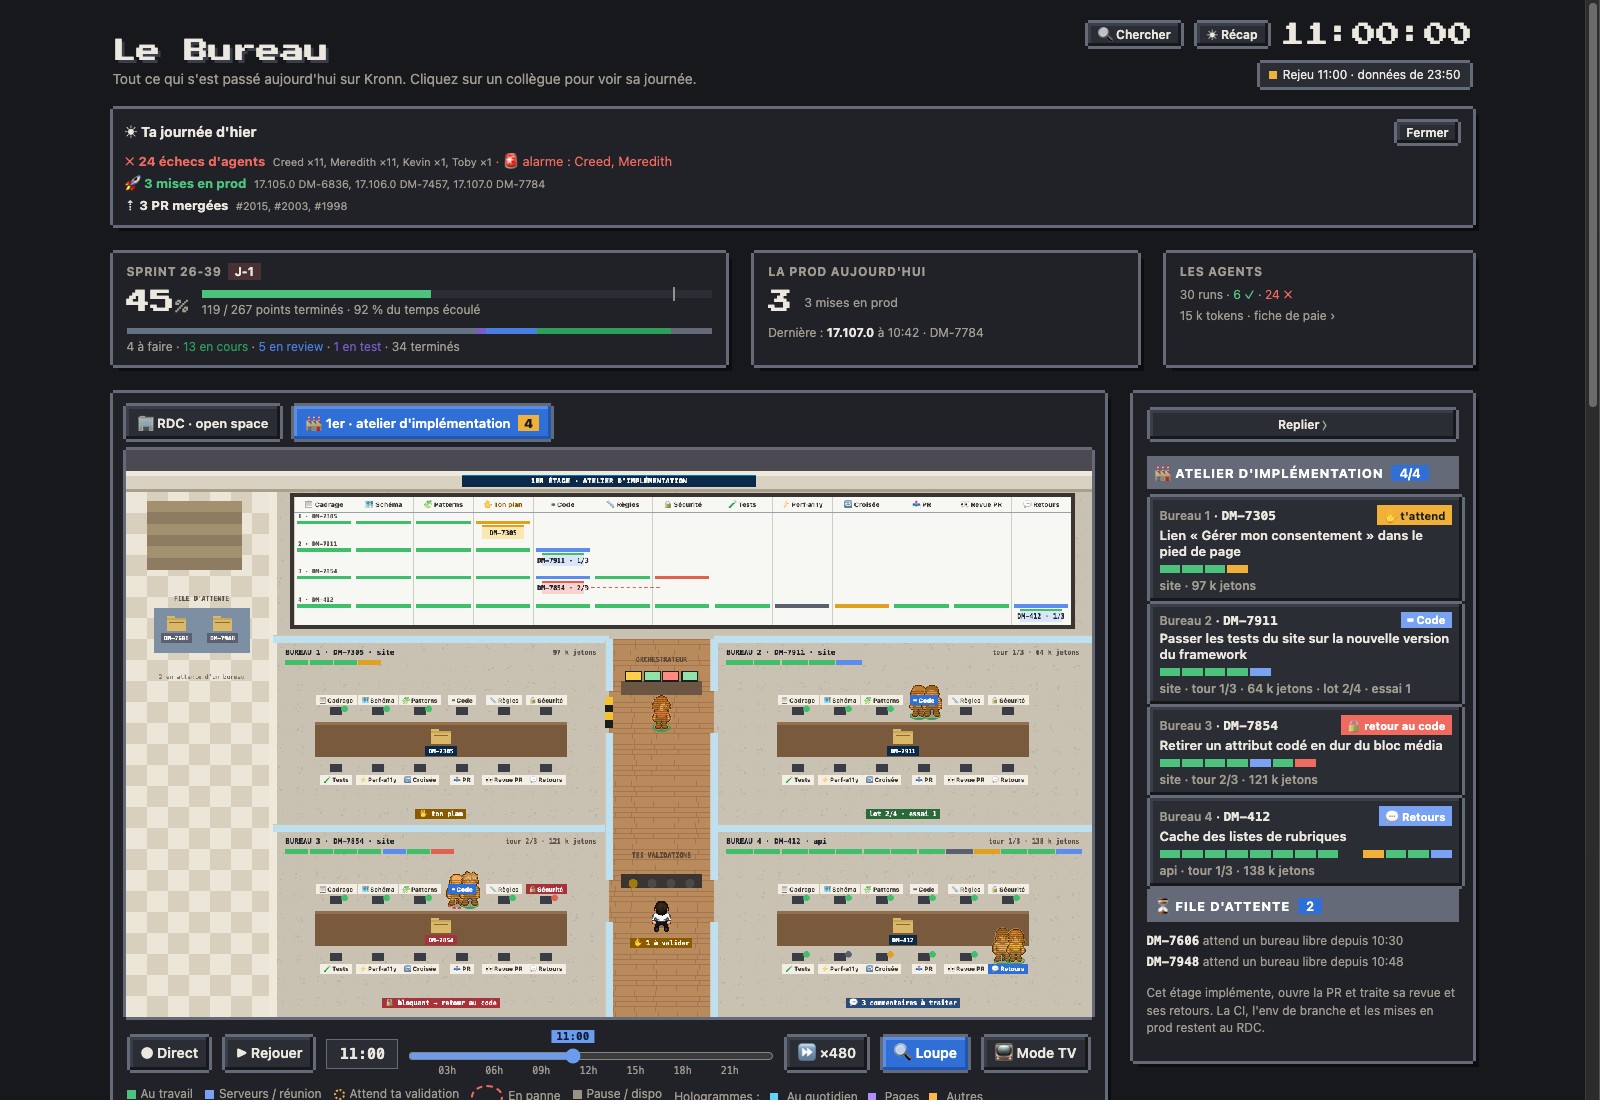
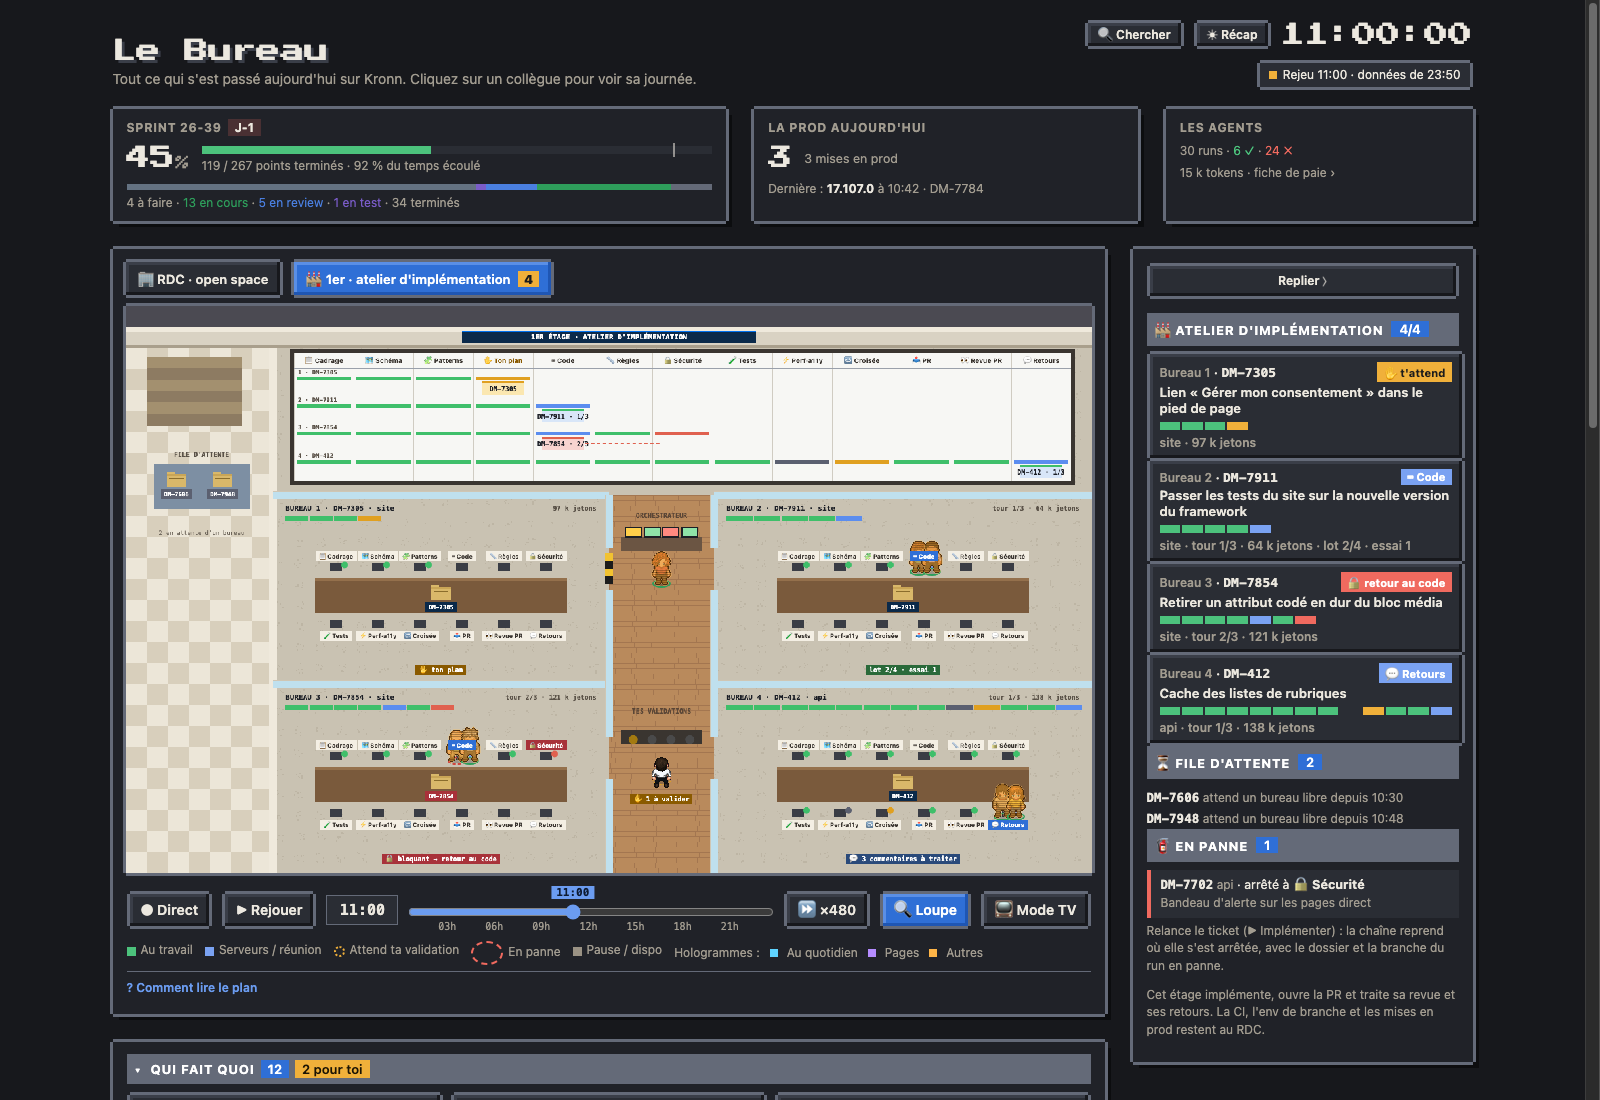
docs(chaine): plusieurs dépôts, reprise après une panne ; guide de l'atelier et capture

diff --git a/docs/architecture/chaine-implementation.md b/docs/architecture/chaine-implementation.md
@@ -1,13 +1,14 @@
 # Chaîne d'implémentation d'un ticket (#76, #125)
 
-> Modèles `workflows/templates/impl*.json`, script `workflows/chaine.py`, réglage `impl` (pack ou config). Relevé le 2026-10-30.
+> Modèles `workflows/templates/impl*.json`, script `workflows/chaine.py`, réglage `impl` (pack ou config). Relevé le 2026-10-30, plusieurs dépôts et reprise le 2026-10-30.
 
 ## Forme
 
 Un ticket avance sur une chaîne de postes. Un poste = un sous-workflow Kronn à but unique, avec son agent, son modèle et ses skills [src: file: tools/templates.py:IMPL_AGENTS].
 
 ```
-impl (lanceur, 0 token)          composant Jira -> dépôt -> projet Kronn ; un seul passage par ticket ; POST /workflows/{chaîne}/trigger avec project_id
+impl (lanceur, 0 token)          composants Jira -> dépôts -> projets Kronn ; une chaîne par dépôt ; un passage par ticket et par dépôt ;
+                                 POST /mcp/workflow-trigger avec project_id et ticket, mode, depot, soeurs, partie, reprise
 └─ impl_chain (parent, 20 étapes, project_scope All, require_isolation, concurrency_limit 4)
    ticket · prepare · [cadrage] · questions · ✋gate_questions · [schema] · [patterns] · dossier · orchestrateur_plan · ✋gate_plan
    · mode · commente_plan (Plan seulement, puis Stop) · [code] · [controles] · orchestrateur · aiguillage · ✋gate_escalade
@@ -25,7 +26,30 @@ impl (lanceur, 0 token)          composant Jira -> dépôt -> projet Kronn ; un 
 - `on_result` ne lit que les signaux : `exit_3`/`exit_4` d'un Exec pour brancher, `SUBWF_FAILED` pour un poste en panne.
 - Un Goto compte ses passages par arête (source, cible) sur tout le run, et une étape en code non nul dont le Goto a épuisé `max_iterations` **échoue** au lieu de continuer : tous les tours (propositions, essais par lot, tests, tours de contrôle) sont comptés par le script, qui rend 0 au dernier ; `max_iterations` n'est qu'un filet.
 - Une référence `{{steps.x.data_json}}` à une sortie d'agent sans enveloppe (`on_invalid: Continue`) est inconnue et Kronn refuse de rendre l'étape : toute référence à une sortie d'étape a un repli `?? …` (posé par le générateur).
-- Le shadow de Kronn ne rejoue pas un workflow à variables : l'instantané chiffré des variables est rangé sous l'id du run normal, le run shadow s'arrête sur « snapshot unavailable ». D'où le mode **essai** : toute la chaîne sans push, sans PR, sans Jira (le script saute ces étapes, `reviewers` sort en 5 pour sauter le commentaire Jira).
+- Le shadow de Kronn ne rejoue pas un workflow à variables : l'instantané chiffré des variables est rangé sous l'id du run normal, le run shadow s'arrête sur « snapshot unavailable ». D'où le mode **essai** : toute la chaîne sans push, sans PR, sans Jira (le script saute ces étapes, `reviewers` sort en 5 pour sauter le commentaire Jira, l'`entree` du Code sort en 5 pour sauter l'étape `affecter`).
+
+## Un ticket, plusieurs dépôts : un bureau et une PR par dépôt
+
+Un ticket Jira à plusieurs composants touche plusieurs dépôts. Kronn ne donne qu'une copie de travail par run : le lanceur pose **une chaîne par dépôt** (méthode A), chacune dans le projet Kronn de son dépôt, sur son bureau de l'atelier.
+
+- `repos_for` : un dépôt par composant (`impl.components`, sinon un dépôt réglé du même nom, sinon `owner/composant`), sans doublon. Le champ « Dépôt » du lanceur (owner/dépôt ou nom de composant) force un seul bureau. Un composant dont le dépôt n'a pas de projet Kronn est signalé dans la sortie du lanceur, les autres partent quand même.
+- Garde-fou : un passage par ticket **et par dépôt**, lu dans la sortie `prepare` des runs actifs (« <ticket> sur <dépôt> »). Un run actif pas encore préparé bloque le lancement (on ne sait pas encore ce qu'il porte).
+- Périmètre : la chaîne reçoit `depot` et `soeurs` ; `prepare` refuse une copie de travail d'un autre dépôt et range les sœurs dans `etat.json`. Chaque poste (et l'orchestrateur, par le dossier) reçoit une section « Périmètre de ce bureau » : ne traiter que la part du dépôt, noter ce qui revient aux autres et ce qui en dépend.
+- PR sœurs : un bloc « PR sœurs » (`<!-- bureau-soeurs -->`) dans la description de chaque PR liste les autres dépôts et leur PR (ou « pas encore ouverte », branche `kronn/<ticket>`) ; la PR qui s'ouvre après réécrit ce bloc dans celles déjà ouvertes, chacune finit par lister toutes les autres.
+- Plan seulement : le commentaire Jira commence par `h3. Partie <dépôt> (i sur n)` (variable `partie`, vide pour un seul dépôt).
+- Limites assumées : une gate du plan par bureau ; aucun ordre de sortie entre dépôts (la relecture et la mise en prod ensemble se gèrent à la main).
+
+## Reprise après une panne
+
+Kronn ne reprend qu'un run interrompu (redémarrage), pas un run en échec, et supprime la copie de travail d'un run fini ou en échec ; les commits restent sur la branche `kronn/<ticket>`. La chaîne se reprend donc elle-même, sans rien changer à Kronn :
+
+- Après chaque étape Exec, le dossier est recopié dans `~/.cache/pixel-bureau/chaine/<ticket>/<owner__dépôt>/courant/`. `etat.json` porte l'étape atteinte (`etape`) : `cadrage`, `code` (plan validé), `controles`, `orchestrateur`, `escalade`, `livraison`, `relecture`, `publication`, `fini`.
+- Le lanceur a une variable `reprise` : `auto` (défaut) reprend si le dernier run de ce ticket sur ce dépôt est en échec, `oui` reprend quoi qu'il arrive (par exemple un « plan seulement » relancé en complet repart au Code sans refaire le plan), `non` repart de zéro (et efface le dossier gardé).
+- En reprise, `prepare` recopie le dossier, revient sur la branche `kronn/<ticket>` (locale, sinon celle poussée) et sort en 3 (Goto `code`), 4 (Goto `controles`) ou 5 (Goto `livraison`) ; 0 avant le plan validé : cadrage, schéma et patterns déjà faits sautent à leur rapport (`entree` sort en 5), l'orchestrateur refait le plan et la gate du plan revient.
+- Au Code, le plan validé et les lots déjà écrits sont gardés ; si l'orchestrateur avait renvoyé au Code, ses consignes reviennent (`consignes_reprise`). Aux contrôles, un rapport déjà rendu saute (`entree` sort en 3) : le Code efface les rapports des contrôles à chaque passage, ceux qui restent valent pour ce code. Une PR déjà ouverte et relue saute à ta relecture.
+- Découper la chaîne en workflows lancés un par un a été écarté : chaque run aurait sa copie de travail, les gates ne seraient plus dans un parent commun, et le dossier devrait vivre hors de la copie de toute façon.
+
+Dans l'atelier, un run en échec des dernières 24 h reste dans « 🧯 En panne » (poste où il s'est arrêté) jusqu'à ce qu'un run plus récent du même ticket et du même dépôt le reprenne.
 
 ## Périmètre : implémentation, PR et retours
 
@@ -45,7 +69,7 @@ La chaîne s'arrête à la PR et à sa vie de revue : `impl_livraison` (« 📤 
 
 ## Le dossier du ticket
 
-`.kronn/chaine/` dans la copie de travail (ignoré par git) : `ticket.md`, `etat.json` (dépôt, base, branche `kronn/<ticket>`, tours, PR, CI, env), un rapport par poste (`<poste>.json`), `plan.json` et `lots.json`, `controles.json`, `retours.md`. Les postes lisent ce qu'ont écrit les précédents ; l'orchestrateur lit tout.
+`.kronn/chaine/` dans la copie de travail (ignoré par git), recopié dans le cache après chaque étape (reprise) : `ticket.md`, `etat.json` (dépôt, sœurs, base, branche `kronn/<ticket>`, étape atteinte, tours, PR), un rapport par poste (`<poste>.json`), `plan.json` et `lots.json`, `controles.json`, `retours.md`. Les postes lisent ce qu'ont écrit les précédents ; l'orchestrateur lit tout.
 
 ## Allers-retours
 
@@ -62,4 +86,4 @@ Vérifier en conteneur jetable depuis la copie de travail : le projet Compose d'
 
 ## Tests
 
-`tests/test_chaine.py` : rendu des modèles (gates, sous-workflows, agents par poste) et `workflows/chaine.py` étape par étape dans un dépôt git jetable.
+`tests/test_chaine.py` : rendu des modèles (gates, sous-workflows, agents par poste, sauts de reprise), `workflows/chaine.py` étape par étape dans un dépôt git jetable (dont une reprise après une panne au Code, aux contrôles et après un retour au Code, un bureau par dépôt et ses PR sœurs), le lanceur (un dépôt par composant, garde-fou par ticket et dépôt, reprise auto) et le relevé de l'atelier (bureaux, file, pannes).

diff --git a/guide/fonctionnalites/23-atelier.md b/guide/fonctionnalites/23-atelier.md
@@ -1,6 +1,6 @@
 # L'atelier d'implémentation (1er étage)
 
-Le 1er étage montre les tickets en cours d'implémentation par la chaîne de postes : un bureau par ticket (quatre en parallèle), et au mur un tableau qui croise les postes et les tickets. L'étage ne traite que l'implémentation, la PR et ses retours : la CI, l'env de branche et les mises en prod restent au rez-de-chaussée.
+Le 1er étage montre les tickets en cours d'implémentation par la chaîne de postes : un bureau par ticket et par dépôt (quatre en parallèle ; un ticket à plusieurs composants Jira prend un bureau et ouvre une PR par dépôt, les PR sœurs se citent entre elles), et au mur un tableau qui croise les postes et les tickets. L'étage ne traite que l'implémentation, la PR et ses retours : la CI, l'env de branche et les mises en prod restent au rez-de-chaussée.
 
 ![Le 1er étage : le tableau mural et les quatre bureaux](../img/atelier.png)
 
@@ -17,9 +17,13 @@ Les onglets au-dessus du plan (« 🏢 RDC · open space », « 🏭 1er · atel
 
 ## Le panneau
 
-Sur le 1er étage, le panneau liste les bureaux (ticket, poste en cours, barre des postes, tour, jetons) et la file. Un clic sur un bureau, dans le panneau ou sur le plan, ouvre sa fiche : le verdict de chaque poste, la note, le lien vers le run dans Kronn et, quand une gate t'attend (questions du cadrage, ton plan, escalade, relecture de la PR), la carte de décision habituelle.
+Sur le 1er étage, le panneau liste les bureaux (ticket, poste en cours, barre des postes, tour, jetons), la file et les pannes. Un clic sur un bureau, dans le panneau ou sur le plan, ouvre sa fiche : le verdict de chaque poste, la note, le lien vers le run dans Kronn et, quand une gate t'attend (questions du cadrage, ton plan, escalade, relecture de la PR), la carte de décision habituelle.
 
 ![Fiche d'un bureau : le verdict de chaque poste](../img/atelier-fiche.png)
+
+## En panne : reprendre là où ça s'est arrêté
+
+Un run de la chaîne qui échoue (un poste qui plante, l'API d'un agent indisponible) reste dans « 🧯 En panne » pendant 24 h, avec le poste où il s'est arrêté. Relance le ticket (▶ Implémenter) : la chaîne reprend là, avec le dossier du ticket et la branche du run en panne. Le plan déjà validé n'est pas redemandé, les lots déjà écrits et les contrôles déjà rendus ne sont pas refaits. Au lancement, « Reprise » vaut « Auto » ; « Reprendre » force la reprise (par exemple un plan seulement relancé jusqu'à la PR), « Repartir de zéro » recommence tout.
 
 ## Données
 

diff --git a/README.md b/README.md
@@ -28,7 +28,7 @@ Une page Live pour [Kronn](https://github.com/DocRoms/Kronn) façon *The Office*
 | [Console Support](guide/fonctionnalites/17-console-support.md) | Le canal Teams des demandes de support sur l'ordinateur du boss : écran en alerte avec le nombre à traiter, console des fils de la semaine dans le panneau, investigation par l'agent Support dans une discussion Kronn, réponse validée (ou reprise) puis postée en fil sous ton nom ; « 🔕 Ignorer » un fil qui n'appelle rien |
 | [Tableau des départs](guide/fonctionnalites/21-departs.md) | DEV, STG et PRD de tous les projets suivis : panneau d'aéroport au mur (les mises en prod, en lettres qui défilent), fenêtre au clic (ticket lié à Jira et sa PR, version liée à sa release, qui a déployé), bloc « Les envs » en mode TV |
 | [Temps gagné par l'IA](guide/fonctionnalites/22-temps-gagne-ia.md) | Sur un ticket terminé (bouton de sa fiche, ou en fin de mise en prod) : PR mergées trouvées sans IA, outil et modèle lus dans les commits, temps sans et avec IA estimé d'après les diffs, commentaire relu puis posté sur le ticket avec un label de suivi, au gabarit de l'équipe |
-| [L'atelier d'implémentation](guide/fonctionnalites/23-atelier.md) | Le 1er étage : un bureau par ticket sur la chaîne de postes (quatre en parallèle), un tableau mural postes × tickets, l'orchestrateur et ton pupitre de validations ; la fiche d'un bureau donne le verdict de chaque poste et la décision d'une gate. Implémentation, PR et retours seulement, pas de déploiement |
+| [L'atelier d'implémentation](guide/fonctionnalites/23-atelier.md) | Le 1er étage : un bureau par ticket et par dépôt sur la chaîne de postes (quatre en parallèle, une PR par dépôt), un tableau mural postes × tickets, l'orchestrateur et ton pupitre de validations ; la fiche d'un bureau donne le verdict de chaque poste et la décision d'une gate ; un run en panne se reprend là où il s'est arrêté. Implémentation, PR et retours seulement, pas de déploiement |
 | [Mise en prod](guide/fonctionnalites/16-mise-en-prod.md) | Mise en prod d'une PR de n'importe quel dépôt réglé : depuis la fiche de l'agent, d'une PR ou d'un ticket ; ticket déduit de la PR, rebase, CI, merge, release, staging puis prod avec tes validations, simulation possible ; annonce Teams éditée à chaque étape (⏳, chargeur, ✅, ❌) |
 
 ## Installer
